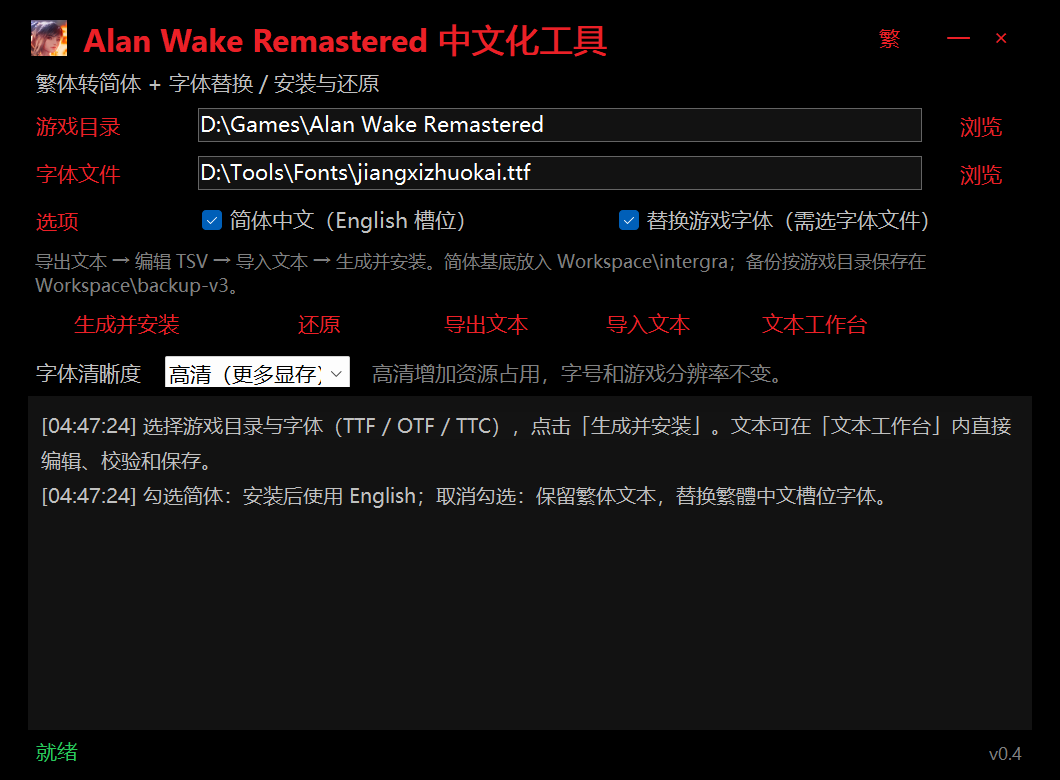
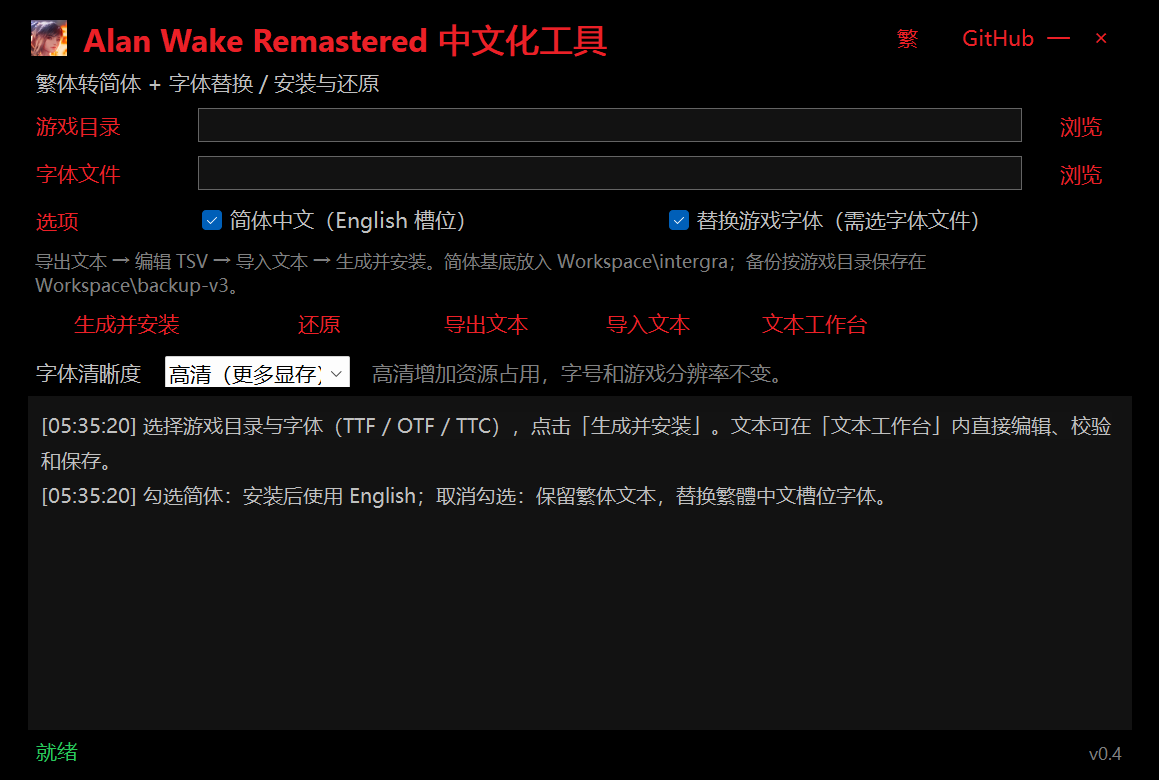
feat: dynamic version binding (csproj -> assembly -> UI footer); bump to v0.5.0

diff --git a/src/AWR.Tools/MainForm.cs b/src/AWR.Tools/MainForm.cs
@@ -108,7 +108,7 @@ public sealed class MainForm : Form
         panel.Controls.Add(log); layout.Controls.Add(panel, 0, 8);
         var footer = new TableLayoutPanel { Dock = DockStyle.Fill, ColumnCount = 2, Margin = Padding.Empty };
         footer.ColumnStyles.Add(new ColumnStyle(SizeType.Percent, 100)); footer.ColumnStyles.Add(new ColumnStyle(SizeType.Absolute, 120));
-        footer.Controls.Add(status); footer.Controls.Add(new Label { Text = "v0.4", Dock = DockStyle.Fill, ForeColor = Color.Gray, TextAlign = ContentAlignment.MiddleRight, Font = new Font("Segoe UI", 9) }); layout.Controls.Add(footer, 0, 9);
+        footer.Controls.Add(status); footer.Controls.Add(new Label { Text = "v" + (Assembly.GetExecutingAssembly().GetName().Version?.ToString(3) ?? "dev"), Dock = DockStyle.Fill, ForeColor = Color.Gray, TextAlign = ContentAlignment.MiddleRight, Font = new Font("Segoe UI", 9) }); layout.Controls.Add(footer, 0, 9);
 
         busyControls.AddRange(new Control[] { game, font });
         LoadSettings();
